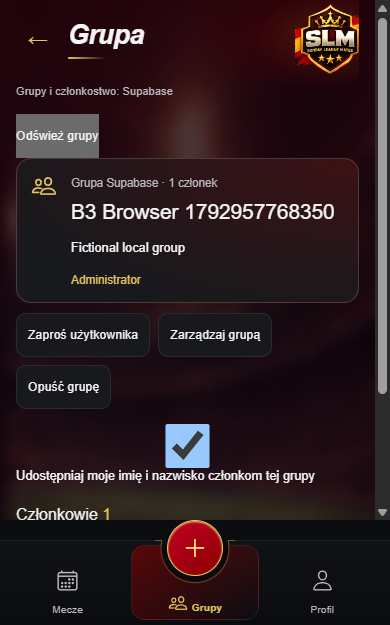
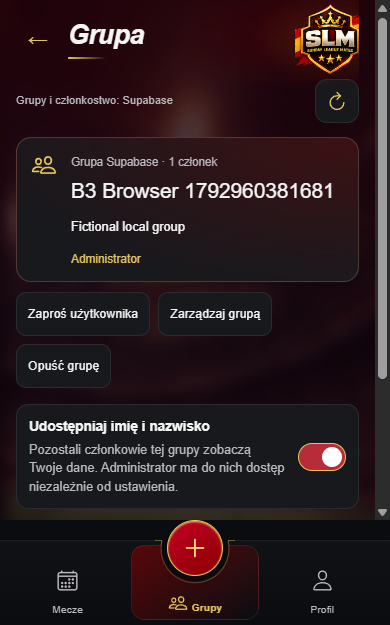
fix: polish Premium group consent and refresh controls

diff --git a/app/src/demo/GroupScreens.tsx b/app/src/demo/GroupScreens.tsx
@@ -4,6 +4,7 @@ import { IonAlert, IonIcon } from '@ionic/react';
 import { peopleOutline, shieldCheckmarkOutline, calendarOutline } from 'ionicons/icons';
 import { useFrozenBack } from '../native/frozenDemoAndroid';
 import MatchHeader from '../ui/MatchHeader';
+import { GroupConsent, GroupRefresh } from '../groups/GroupControls';
 import { DemoAvatar } from './Identity';
 import type { Action } from './data';
 import { canViewGroupProfile, groupAdmin, groupCanOrganize, groupMembers, inviteCandidates, membership, normalizeDemoContact, publicGroups, validGroupText } from './groups';
@@ -42,7 +43,7 @@ function GroupDetails({world,dispatch,groupId,onPlayer,onLeave,live}:Props&{grou
  const [confirm,setConfirm]=useState<{kind:'remove'|'transfer'|'leave';targetId?:string}|null>(null);
  // A list summary is not a member roster. Do not render profiles until the
  // selected group's server projection has completed, even in a hidden panel.
- if(live?.loading)return <p role="status">Wczytywanie członków grupy…</p>;
+ if(live?.loading&&!world.groupState.members.some(m=>m.groupId===groupId&&m.playerId===world.userId&&m.joinedAt))return <p role="status">Wczytywanie członków grupy…</p>;
  const group=world.groupState.groups.find(g=>g.id===groupId),own=membership(world,groupId),admin=groupAdmin(world,groupId);
  if(!group||!own)return <section className="slm-group-empty" role="status"><h2>Brak dostępu do członków</h2><p>Grupa nie istnieje lub nie jesteś jej członkiem. Możesz znaleźć grupę i poprosić o dołączenie.</p></section>;
  const members=groupMembers(world,groupId).sort((a,b)=>Number(b.playerId===group.adminId)-Number(a.playerId===group.adminId)||nameOf(world,a.playerId).localeCompare(nameOf(world,b.playerId),'pl'));
@@ -53,7 +54,7 @@ function GroupDetails({world,dispatch,groupId,onPlayer,onLeave,live}:Props&{grou
  return <><section className="slm-group-hero"><IonIcon icon={peopleOutline} aria-hidden="true"/><div><small>{live?'Grupa Supabase':'Grupa demonstracyjna'} · {memberCount(members.length)}</small><h2>{group.name}</h2><p>{group.description||'Wspólna ekipa piłkarska'}</p><span className="slm-group-role">{role(world.userId)}</span></div></section><div className="slm-group-actions"><button type="button" aria-expanded={invite} onClick={()=>setInvite(!invite)}>{admin?'Zaproś użytkownika':'Zaproponuj zaproszenie'}</button>{admin&&<button type="button" aria-expanded={manage} onClick={()=>setManage(!manage)}>Zarządzaj grupą</button>}<button type="button" onClick={()=>setConfirm({kind:'leave'})}>Opuść grupę</button></div>
  {invite&&<Invite world={world} group={group} dispatch={dispatch} live={live}/>}
  {admin&&manage&&<section className="slm-group-management" aria-label="Panel administratora grupy"><h2>Zarządzanie grupą</h2><p className="slm-muted">Uprawnienia obowiązują tylko w tej grupie i pozwalają tworzyć jej mecze.</p><h3>Prośby i propozycje <span>{requests.length}</span></h3>{!requests.length&&<p>Brak oczekujących zgłoszeń.</p>}{requests.map(r=><article className="slm-group-request" key={r.id}><h4>{requestTitle(world,r)}</h4>{live?.requestPhones[r.id]&&<a className="slm-call" href={'tel:'+live.requestPhones[r.id]}>Zadzwoń do zgłaszającego</a>}{r.kind==='proposal'&&<small>Proponuje: {nameOf(world,r.requestedBy)}</small>}<div className="slm-group-actions"><button type="button" onClick={()=>dispatch({type:'group_decide',requestId:r.id,accept:false})}>Odrzuć zgłoszenie</button><button type="button" onClick={()=>dispatch({type:'group_decide',requestId:r.id,accept:true})}>Akceptuj zgłoszenie</button></div></article>)}<h3>Uprawnienia członka</h3>{!selected?<p>Nie ma innych członków do zarządzania.</p>:<><label htmlFor="group-manage-member">Wybierz członka<select id="group-manage-member" value={selected.playerId} onChange={e=>setTarget(e.target.value)}>{others.map(m=><option key={m.playerId} value={m.playerId}>{nameOf(world,m.playerId)}</option>)}</select></label><p>{role(selected.playerId)}</p><div className="slm-group-actions"><button type="button" onClick={()=>dispatch({type:'group_permission',groupId,targetId:selected.playerId,allow:!selected.organizer})}>{selected.organizer?'Odbierz prawo tworzenia meczów':'Nadaj prawo tworzenia meczów'}</button><button type="button" onClick={()=>setConfirm({kind:'transfer',targetId:selected.playerId})}>Przekaż administrację</button><button type="button" onClick={()=>setConfirm({kind:'remove',targetId:selected.playerId})}>Usuń członka</button></div></>}</section>}
- <>{live&&<label><input type="checkbox" checked={live.shareFullName} onChange={e=>live.consent(e.target.checked)}/> Udostępniaj moje imię i nazwisko także pozostałym członkom tej grupy (administrator ma dostęp)</label>}</><section className="slm-group-roster" aria-label="Członkowie grupy"><h2>Członkowie <span>{members.length}</span></h2><ul>{(expanded?members:members.slice(0,5)).map(m=>{const player=world.players.find(p=>p.id===m.playerId)!;return <li key={m.playerId}><button type="button" className="slm-group-person" data-player={m.playerId} onClick={()=>{if(canViewGroupProfile(world,groupId,m.playerId))onPlayer(m.playerId,groupId);}}><span className="slm-player-avatar" aria-hidden="true"><DemoAvatar player={player}/></span><span><strong>{player.name}</strong><small>{role(m.playerId)}</small></span><IonIcon icon={m.playerId===group.adminId?shieldCheckmarkOutline:m.organizer?calendarOutline:peopleOutline} aria-hidden="true"/><span aria-hidden="true">›</span></button></li>;})}</ul>{members.length>5&&<button type="button" aria-expanded={expanded} onClick={()=>setExpanded(!expanded)}>{expanded?'Pokaż mniej':`Pokaż wszystkich (${members.length})`}</button>}</section>
+ {live&&<GroupConsent checked={live.shareFullName} busy={live.busy||live.loading} onChange={live.consent}/>}<section className="slm-group-roster" aria-label="Członkowie grupy"><h2>Członkowie <span>{members.length}</span></h2><ul>{(expanded?members:members.slice(0,5)).map(m=>{const player=world.players.find(p=>p.id===m.playerId)!;return <li key={m.playerId}><button type="button" className="slm-group-person" data-player={m.playerId} onClick={()=>{if(canViewGroupProfile(world,groupId,m.playerId))onPlayer(m.playerId,groupId);}}><span className="slm-player-avatar" aria-hidden="true"><DemoAvatar player={player}/></span><span><strong>{player.name}</strong><small>{role(m.playerId)}</small></span><IonIcon icon={m.playerId===group.adminId?shieldCheckmarkOutline:m.organizer?calendarOutline:peopleOutline} aria-hidden="true"/><span aria-hidden="true">›</span></button></li>;})}</ul>{members.length>5&&<button type="button" aria-expanded={expanded} onClick={()=>setExpanded(!expanded)}>{expanded?'Pokaż mniej':`Pokaż wszystkich (${members.length})`}</button>}</section>
  <IonAlert isOpen={!!confirm} header={confirm?.kind==='leave'?'Opuścić grupę?':confirm?.kind==='transfer'?'Przekazać administrację?':'Usunąć członka?'} message={confirm?.kind==='leave'?(last?(live?'Jesteś ostatnim członkiem. Grupa zostanie zarchiwizowana; historia pozostanie zachowana.':'Jesteś ostatnim członkiem. Pusta grupa zostanie usunięta z demo.'):admin?'Administrację przejmie najstarszy stażem organizator, a gdy go brak — najstarszy członek.':'Utracisz dostęp do członków i uprawnienia tej grupy.'):confirm?.kind==='transfer'?`Administrację otrzyma ${nameOf(world,confirm.targetId??null)}. Przestaniesz być administratorem.`:`${nameOf(world,confirm?.targetId??null)} utraci członkostwo i uprawnienia w tej grupie.`} buttons={[{text:'Anuluj',role:'cancel'},{text:'Potwierdź',role:'destructive',handler:()=>{if(!confirm)return;if(confirm.kind==='leave'){dispatch({type:'group_leave',groupId});onLeave();}else dispatch({type:confirm.kind==='remove'?'group_remove':'group_transfer',groupId,targetId:confirm.targetId!});}}]} onDidDismiss={()=>setConfirm(null)}/>
  </>;
 }
@@ -67,7 +68,7 @@ export default function Groups({world,dispatch,onPlayer,live}:Props) {
  useFrozenBack(()=>{if(view==='mine')return false;home();return true;},()=>document.querySelector<HTMLElement>('.slm-groups'),20);
  // FROZEN_ANDROID_END
  const mine=world.groupState.groups.filter(g=>membership(world,g.id));
- return <section className="slm-groups" aria-label={live?"Grupy Supabase":"Grupy demonstracyjne"}><MatchHeader title={view==='mine'?'Moje grupy':view==='find'?'Znajdź grupę':view==='create'?'Nowa grupa':'Grupa'} onBack={view==='mine'?undefined:home} backLabel="Wróć do moich grup"/>{world.notice&&<p className="slm-group-feedback" role="status">{world.notice}</p>}<p className="slm-groups-demo">{live?'Grupy i członkostwo: Supabase':'Fikcyjne grupy · dane tylko w pamięci demo'}</p>{live&&<><button type="button" disabled={live.busy||live.loading} onClick={()=>void live.refresh()}>Odśwież grupy</button>{live.loading&&<p role="status">Wczytywanie grup…</p>}{live.error&&<p className="slm-error" role="alert">{live.error}</p>}</>}<fieldset hidden={live?.loading||!!live?.error} disabled={live?.busy||live?.loading} style={{border:0,padding:0,margin:0,minWidth:0}}>
+ return <section className="slm-groups" aria-label={live?"Grupy Supabase":"Grupy demonstracyjne"}><MatchHeader title={view==='mine'?'Moje grupy':view==='find'?'Znajdź grupę':view==='create'?'Nowa grupa':'Grupa'} onBack={view==='mine'?undefined:home} backLabel="Wróć do moich grup"/>{world.notice&&<p className="slm-group-feedback" role="status">{world.notice}</p>}<div className={live?"slm-group-toolbar":undefined}><p className="slm-groups-demo">{live?'Grupy i członkostwo: Supabase':'Fikcyjne grupy · dane tylko w pamięci demo'}</p>{live&&<GroupRefresh loading={live.loading} disabled={live.busy} onRefresh={live.refresh}/>}</div>{live&&<>{live.loading&&!world.groupState.groups.length&&<p role="status">Wczytywanie grup…</p>}{live.error&&<p className="slm-error" role="alert">{live.error}</p>}</>}<fieldset hidden={(live?.loading||!!live?.error)&&!world.groupState.groups.length} disabled={live?.busy||live?.loading} style={{border:0,padding:0,margin:0,minWidth:0}}>
  {view==='mine'?<><div className="slm-group-actions"><button type="button" className="slm-group-primary" onClick={()=>setView('create')}>Utwórz grupę</button><button type="button" onClick={()=>setView('find')}>Znajdź grupę</button></div><div className="slm-group-list">{mine.map(g=>{const count=live?live.counts[g.id]??0:world.groupState.members.filter(m=>m.groupId===g.id).length,admin=groupAdmin(world,g.id),pending=live?live.pending[g.id]??0:world.groupState.requests.filter(r=>r.groupId===g.id&&r.status==='pending'&&r.channel==='nick'&&r.kind!=='invite'&&(admin||r.requestedBy===world.userId)).length;return <button type="button" className="slm-group-card" key={g.id} onClick={()=>open(g.id)}><IonIcon icon={peopleOutline} aria-hidden="true"/><span><strong>{g.name}</strong><small>{g.description}</small><span className="slm-group-meta">{memberCount(count)} · {admin?'Administrator':groupCanOrganize(world,g.id)?'Organizator':'Członek'}</span>{pending>0&&<span className="slm-group-pending">Oczekujące zgłoszenia: {pending}</span>}</span><span aria-hidden="true">›</span></button>;})}</div>{!mine.length&&<section className="slm-group-empty"><h2>Jeszcze nie należysz do grupy</h2><p>Utwórz własną ekipę, znajdź grupę lub przyjmij zaproszenie.</p></section>}<Invitations world={world} dispatch={dispatch} live={live}/>{live&&<section className="slm-group-inbox" aria-label="Moje zgłoszenia"><h2>Moje zgłoszenia</h2>{world.groupState.requests.filter(r=>r.kind==='join'&&r.requestedBy===world.userId).map(r=><article className="slm-group-request" key={r.id}><h3>{world.groupState.groups.find(g=>g.id===r.groupId)?.name}</h3><p>{({pending:'Oczekuje',accepted:'Przyjęto',rejected:'Odrzucono',cancelled:'Anulowano'})[r.status]}</p>{r.status==='pending'&&<button type="button" onClick={()=>dispatch({type:'group_cancel',requestId:r.id})}>Anuluj prośbę</button>}</article>)}</section>}</>:view==='create'?<NewGroup live={live} onCancel={home} onSave={async(name,description,key)=>{if(live){const id=await live.create(name,description,key);if(id)open(id,true);return;}const id=`group-${world.groupState.nextId}`;dispatch({type:'group_create',name,description,key});open(id);}}/>:view==='find'?<FindGroups world={world} dispatch={dispatch} onOpen={open} live={live}/>:<GroupDetails key={`${selected}-${world.userId}`} groupId={selected} world={world} dispatch={dispatch} onPlayer={onPlayer} onLeave={home} live={live}/>}
  </fieldset></section>;
 }

diff --git a/app/src/groups/useGroups.test.tsx b/app/src/groups/useGroups.test.tsx
@@ -17,8 +17,8 @@ it('uses server counts and UUIDs without importing any demo world or inventing m
 it('does not render an invented member profile while a real detail request is loading',()=>{
  window.history.replaceState(null,'','/#group/group-real');
  const binding:GroupBinding={loading:true,busy:false,error:'',searching:false,finding:false,counts:{'group-real':2},pending:{},found:[],candidates:[],requestPhones:{},shareFullName:false,refresh:async()=>{},open:async()=>{},search:()=>{},findPlayers:()=>{},create:async()=>null,act:()=>{},consent:()=>{}};
- render(<GroupScreens world={groupWorld('owner',[group],[],null)} live={binding} dispatch={vi.fn()} onPlayer={vi.fn()}/>);
- expect(screen.getByText('Wczytywanie grup…')).toBeTruthy();expect(screen.queryByText('Osoba demonstracyjna')).toBeNull();
+ render(<GroupScreens world={{...groupWorld('owner',[group],[],null),players:[{id:'unrelated',name:'Other group member',nick:'Other'}]}} live={binding} dispatch={vi.fn()} onPlayer={vi.fn()}/>);
+ expect(screen.getByText('Wczytywanie członków grupy…')).toBeTruthy();expect(screen.queryByText('Osoba demonstracyjna')).toBeNull();
 });
 it('clears private group state on failed refresh and permits retry without a demo fallback',async()=>{
  let broken=false;
@@ -59,4 +59,42 @@ it('ignores late search results and updates membership only from server read-bac
  await waitFor(()=>expect(result.current.binding.busy).toBe(false));
  expect(manager.call).toHaveBeenCalledWith('groups_consent',expect.objectContaining({group_id:'group-real',share_full_name:true,request_id:expect.any(String)}));
  expect(result.current.binding.shareFullName).toBe(false); // Server read-back, never optimistic consent.
+});
+
+it('coalesces simultaneous manual refreshes into one list/inbox request pair',async()=>{
+ let hold=false,finish:(value:unknown)=>void=()=>{};
+ const manager=mock(async action=>action==='groups_list'?(hold?new Promise(resolve=>{finish=resolve;}):{groups:[group]}):{requests:[]});
+ const {result}=renderHook(()=>useGroups(manager,'owner'));await waitFor(()=>expect(result.current.binding.loading).toBe(false));
+ vi.mocked(manager.call).mockClear();hold=true;
+ let first:Promise<void>,second:Promise<void>;
+ act(()=>{first=result.current.binding.refresh();second=result.current.binding.refresh();});
+ expect(first!).toBe(second!);expect(manager.call).toHaveBeenCalledTimes(2);
+ await act(async()=>{finish({groups:[group]});await first;});
+ expect(result.current.binding.loading).toBe(false);
+});
+it('retains server consent after refresh/reopen, scopes writes and retains old value on save error',async()=>{
+ let stored=false,broken=false;
+ const manager=mock(async(action,body)=>{
+  if(action==='groups_list')return {groups:[group]};if(action==='groups_inbox')return {requests:[]};
+  if(action==='groups_detail')return {...detail,members:detail.members.map(m=>({...m,share_full_name:stored}))};
+  if(action==='groups_consent'){if(broken)throw Error('Save failed');stored=body?.share_full_name===true;return {ok:true};}
+  throw Error('Unexpected operation');
+ });
+ const {result}=renderHook(()=>useGroups(manager,'owner'));await waitFor(()=>expect(result.current.binding.loading).toBe(false));
+ await act(()=>result.current.binding.open(group.id));act(()=>result.current.binding.consent(true));
+ await waitFor(()=>expect(result.current.binding.busy).toBe(false));expect(result.current.binding.shareFullName).toBe(true);
+ await act(()=>result.current.binding.refresh());await act(()=>result.current.binding.open(group.id));expect(result.current.binding.shareFullName).toBe(true);
+ broken=true;act(()=>result.current.binding.consent(false));await waitFor(()=>expect(result.current.binding.error).toBe('Save failed'));
+ expect(result.current.binding.shareFullName).toBe(true);expect(stored).toBe(true);
+ expect(manager.call).toHaveBeenCalledWith('groups_consent',expect.objectContaining({group_id:group.id,share_full_name:true}));
+});
+
+it('keeps the saved switch visible with an accessible save error',()=>{
+ window.history.replaceState(null,'','/#group/group-real');
+ const binding:GroupBinding={loading:false,busy:false,error:'Save failed',searching:false,finding:false,counts:{'group-real':2},pending:{},found:[],candidates:[],requestPhones:{},shareFullName:true,refresh:async()=>{},open:async()=>{},search:()=>{},findPlayers:()=>{},create:async()=>null,act:()=>{},consent:()=>{}};
+ const {rerender}=render(<GroupScreens world={groupWorld('owner',[group],[],detail)} live={binding} dispatch={vi.fn()} onPlayer={vi.fn()}/>);
+ expect(screen.getByRole('alert').textContent).toBe('Save failed');
+ expect(screen.getByRole('switch',{name:'Udostępniaj imię i nazwisko'}).getAttribute('aria-checked')).toBe('true');
+ rerender(<GroupScreens world={groupWorld('owner',[group],[],detail)} live={{...binding,error:'',loading:true}} dispatch={vi.fn()} onPlayer={vi.fn()}/>);
+ expect(screen.getByRole('switch').getAttribute('aria-checked')).toBe('true');expect(screen.getByRole('switch')).toHaveProperty('disabled',true);
 });

diff --git a/app/cypress/b3/groups.cy.ts b/app/cypress/b3/groups.cy.ts
@@ -10,16 +10,17 @@ describe('Premium B3: original groups UI with real backend',()=>{
   cy.contains('nav button','Grupy').click();cy.contains('Grupy i członkostwo: Supabase').should('be.visible');
   cy.contains('button','Utwórz grupę').click();cy.get('#group-name').type(groupName);cy.get('#group-description').type('Fictional local group');cy.get('form[aria-label="Utwórz grupę"] button[type=submit]').click();
   cy.contains('.slm-group-hero',groupName).should('be.visible');cy.contains('.slm-group-role','Administrator').should('be.visible');
-  cy.get('input[type=checkbox]').check();cy.get('input[type=checkbox]').should('be.checked');
+  cy.get('[role=switch]').should('have.attr','aria-checked','false').click();cy.get('[role=switch]').should('have.attr','aria-checked','true').and('not.be.disabled');
+  cy.get('[aria-label="Odśwież grupy"]').click();cy.get('[role=switch]').should('have.attr','aria-checked','true').and('not.be.disabled');
   cy.contains('.slm-group-person','B3 Player 1').click();cy.get('.slm-ultimate-card').should('be.visible');cy.contains('a','Zadzwoń').should('have.attr','href').and('match',/^tel:\+48000/);
   cy.get('[aria-label="Wróć do grupy"]').click();cy.contains('.slm-group-hero',groupName).should('be.visible');
   cy.contains('.slm-group-person','B3 Player 1').click();cy.get('.slm-ultimate-card').should('be.visible');
   cy.contains('nav button','Grupy').click();cy.contains('h1','Moje grupy').should('be.visible');cy.contains('.slm-group-card',groupName).click();
-  cy.reload();cy.contains('.slm-group-hero',groupName,{timeout:15000}).should('be.visible');cy.get('[aria-label="Wróć do moich grup"]').click();cy.contains('button','Znajdź grupę').click();cy.get('#group-query').type(groupName);cy.contains('.slm-group-card',groupName).should('be.visible');
+  cy.reload();cy.contains('.slm-group-hero',groupName,{timeout:15000}).should('be.visible');cy.get('[role=switch]').should('have.attr','aria-checked','true');cy.get('[aria-label="Wróć do moich grup"]').click();cy.contains('button','Znajdź grupę').click();cy.get('#group-query').type(groupName);cy.contains('.slm-group-card',groupName).should('be.visible');
   cy.contains('button','Otwórz swoją grupę').click();cy.contains('.slm-group-hero',groupName).should('be.visible');
   for(const theme of ['light','dark']){
    cy.document().then(doc=>doc.documentElement.classList.toggle('ion-palette-dark',theme==='dark'));
-   for(const width of [320,360,390,430]){cy.viewport(width,844);cy.document().then(doc=>expect(doc.documentElement.scrollWidth).to.be.at.most(width));}
+   for(const width of [320,360,390,430]){cy.viewport(width,844);cy.document().then(doc=>expect(doc.documentElement.scrollWidth).to.be.at.most(width));for(const selector of ['[role=switch]','.slm-group-refresh'])cy.get(selector).then(el=>{const r=el[0].getBoundingClientRect();expect(r.width).to.be.at.least(44);expect(r.height).to.be.at.least(44);expect(r.right).to.be.at.most(width);});}
    cy.viewport(390,844);
    cy.screenshot('groups-real-'+theme,{capture:'viewport',overwrite:true});
   }

diff --git a/app/src/groups/GroupControls.css b/app/src/groups/GroupControls.css
@@ -1,0 +1,19 @@
+/* Wyłącznie kontrolki B3; bez zmian wspólnych kart i nawigacji. */
+.slm-group-toolbar { display:flex; align-items:center; justify-content:space-between; gap:12px; margin-bottom:14px; }
+.slm-group-toolbar .slm-groups-demo { margin:4px 0; }
+.slm-groups .slm-group-refresh { flex:0 0 44px; width:44px; height:44px; display:grid; place-items:center; padding:0; border:1px solid var(--slm-border); border-radius:12px; background:var(--slm-panel); color:var(--slm-gold); }
+.slm-group-refresh ion-icon { font-size:22px; }
+.slm-group-refresh[aria-busy="true"] ion-icon { animation:slm-group-refresh-spin 1s linear infinite; }
+.slm-group-consent { display:flex; align-items:center; gap:12px; margin:16px 0; padding:12px; border:1px solid var(--slm-border); border-radius:12px; background:var(--slm-panel); }
+.slm-group-consent > div { flex:1; min-width:0; }
+.slm-group-consent strong { font-size:0.85rem; }
+.slm-group-consent p { margin:6px 0 0; color:var(--slm-text-secondary); line-height:1.45; }
+.slm-groups .slm-group-consent button { position:relative; flex:0 0 48px; width:48px; height:44px; padding:0; border:0; background:transparent; }
+.slm-group-consent button::before { content:""; position:absolute; inset:8px 0; border:1px solid var(--slm-text-secondary); border-radius:16px; background:var(--ion-background-color); }
+.slm-group-consent button[aria-checked="true"]::before { background:var(--ion-color-primary); border-color:var(--slm-gold); }
+.slm-group-consent button span { position:absolute; left:4px; top:12px; width:20px; height:20px; border-radius:50%; background:var(--slm-text-secondary); transition:transform 150ms ease; }
+.slm-group-consent button[aria-checked="true"] span { transform:translateX(20px); background:var(--ion-color-primary-contrast); }
+.slm-group-consent[aria-busy="true"] { cursor:progress; }
+.slm-groups .slm-group-consent button:focus-visible,.slm-groups .slm-group-refresh:focus-visible { outline:2px solid var(--ion-color-primary); outline-offset:3px; }
+@keyframes slm-group-refresh-spin { to { transform:rotate(360deg); } }
+@media (prefers-reduced-motion:reduce) { .slm-group-refresh[aria-busy="true"] ion-icon { animation:none; } .slm-group-consent button span { transition:none; } }

diff --git a/app/src/groups/useGroups.ts b/app/src/groups/useGroups.ts
@@ -40,6 +40,13 @@ export function useGroups(manager:SessionManager,userId:string){
   } catch(e){if(ticket===generation.current){setState({groups:[],inbox:[],detail:null});fail(e);}}
   finally {if(alive.current&&ticket===generation.current)setLoading(false);}
  },[manager,userId,fail]);
+ // Coalesce manual refreshes synchronously, before React disables the button.
+ const manualFlight=useRef<Promise<void>|null>(null);
+ const manualRefresh=useCallback(()=>{
+  if(manualFlight.current)return manualFlight.current;
+  const pending=refresh();manualFlight.current=pending;
+  void pending.finally(()=>{if(manualFlight.current===pending)manualFlight.current=null;});return pending;
+ },[refresh]);
  const invalidate=useCallback(()=>{generation.current++;searchEpoch.current++;candidateEpoch.current++;},[]);
  useEffect(()=>{alive.current=true;void refresh();return()=>{alive.current=false;invalidate();};},[refresh,userId,invalidate]);
  const mutate=async<T,>(action:string,body:Record<string,unknown>)=>{
@@ -60,7 +67,7 @@ export function useGroups(manager:SessionManager,userId:string){
   const ticket=++candidateEpoch.current;setCandidates([]);setFinding(query.trim().length>=2);if(query.trim().length<2)return;
   void manager.call<{players:{id:string;name:string}[]}>('groups_candidates',{group_id:id,query}).then(r=>{if(alive.current&&ticket===candidateEpoch.current)setCandidates(r.players);}).catch(e=>{if(ticket===candidateEpoch.current)fail(e);}).finally(()=>{if(alive.current&&ticket===candidateEpoch.current)setFinding(false);});
  },[manager,fail]);
- const binding:GroupBinding={loading,busy,error,searching,finding,found,candidates,search,findPlayers,refresh,
+ const binding:GroupBinding={loading,busy,error,searching,finding,found,candidates,search,findPlayers,refresh:manualRefresh,
   counts:Object.fromEntries(state.groups.map(g=>[g.id,g.member_count])),pending:Object.fromEntries(state.groups.map(g=>[g.id,g.pending_count])),
   requestPhones:Object.fromEntries((state.detail?.requests??[]).filter(r=>!!r.contact_phone).map(r=>[r.id,r.contact_phone!])),
   shareFullName:state.detail?.members.find(m=>m.user_id===userId)?.share_full_name??false,

diff --git a/app/src/groups/GroupControls.test.tsx b/app/src/groups/GroupControls.test.tsx
@@ -1,0 +1,22 @@
+import { fireEvent,render,screen,cleanup } from '@testing-library/react';
+import { afterEach,expect,it,vi } from 'vitest';
+import { GroupConsent,GroupRefresh } from './GroupControls';
+
+afterEach(cleanup);
+it('exposes a labelled controlled switch and disables changes while saving',()=>{
+ const change=vi.fn();const {rerender}=render(<GroupConsent checked={false} busy={false} onChange={change}/>);
+ const toggle=screen.getByRole('switch',{name:'Udostępniaj imię i nazwisko'});
+ expect(toggle.getAttribute('aria-checked')).toBe('false');fireEvent.click(toggle);expect(change).toHaveBeenCalledWith(true);
+ expect(toggle.getAttribute('aria-checked')).toBe('false'); // Only server read-back changes it.
+ rerender(<GroupConsent checked busy onChange={change}/>);
+ expect(toggle.getAttribute('aria-checked')).toBe('true');expect(toggle).toHaveProperty('disabled',true);
+ fireEvent.click(toggle);expect(change).toHaveBeenCalledTimes(1);
+ expect(toggle.getAttribute('aria-describedby')).toBeTruthy();
+});
+it('keeps the refresh name and button while loading and prevents further clicks',()=>{
+ const refresh=vi.fn(async()=>{});const {rerender}=render(<GroupRefresh loading={false} disabled={false} onRefresh={refresh}/>);
+ const button=screen.getByRole('button',{name:'Odśwież grupy'});fireEvent.click(button);expect(refresh).toHaveBeenCalledTimes(1);
+ rerender(<GroupRefresh loading disabled={false} onRefresh={refresh}/>);
+ expect(screen.getByRole('button',{name:'Odśwież grupy'})).toBe(button);expect(button.getAttribute('aria-busy')).toBe('true');
+ expect(screen.getByRole('status').textContent).toBe('Odświeżanie grup…');fireEvent.click(button);expect(refresh).toHaveBeenCalledTimes(1);
+});

diff --git a/app/src/groups/GroupControls.tsx b/app/src/groups/GroupControls.tsx
@@ -1,0 +1,19 @@
+import { useId } from 'react';
+import { IonIcon } from '@ionic/react';
+import { refreshOutline } from 'ionicons/icons';
+import './GroupControls.css';
+
+export function GroupConsent({checked,busy,onChange}:{checked:boolean;busy:boolean;onChange:(value:boolean)=>void}) {
+ const id=useId();
+ return <div className="slm-group-consent" aria-busy={busy}>
+  <div><strong id={id}>Udostępniaj imię i nazwisko</strong><p id={`${id}-help`}>Pozostali członkowie tej grupy zobaczą Twoje dane. Administrator ma do nich dostęp niezależnie od ustawienia.</p></div>
+  <button type="button" role="switch" aria-checked={checked} aria-labelledby={id} aria-describedby={`${id}-help`} disabled={busy} onClick={()=>onChange(!checked)}><span aria-hidden="true"/></button>
+ </div>;
+}
+
+export function GroupRefresh({loading,disabled,onRefresh}:{loading:boolean;disabled:boolean;onRefresh:()=>Promise<void>}) {
+ return <button className="slm-group-refresh" type="button" aria-label="Odśwież grupy" aria-busy={loading} disabled={loading||disabled} onClick={()=>void onRefresh()}>
+  <IonIcon icon={refreshOutline} aria-hidden="true"/>
+  <span className="slm-sr-only" role="status">{loading?'Odświeżanie grup…':''}</span>
+ </button>;
+}

diff --git a/app/vite.demo.config.ts b/app/vite.demo.config.ts
@@ -10,6 +10,7 @@ const allowed = new Set([
   'src/demo/palettes.css',
   'src/demo/eventAccess.ts', 'src/demo/EventAccessView.tsx', 'src/demo/eventAccess.css',
   'src/demo/groups.ts', 'src/demo/GroupScreens.tsx',
+  'src/groups/GroupControls.tsx', 'src/groups/GroupControls.css', // Presentation only; no Auth/API imports.
   'src/demo/eventDraft.ts', 'src/demo/EventForm.tsx', 'src/demo/DemoBottomNav.tsx',
   'src/demo/Identity.tsx', 'src/demo/portraits.ts', 'src/demo/Finance.tsx', 'src/demo/Teams.tsx', 'src/demo/UltimatePlayerCard.tsx', 'src/demo/App.tsx', 'src/demo/data.ts', 'src/demo/Panels.tsx', 'src/demo/Profile.tsx', 'demo/index.html', 'demo/main.tsx', 'src/ui/Demo.tsx', 'src/ui/MatchHero.tsx',
   'src/ui/Players.tsx', 'src/ui/MatchHeader.tsx', 'src/ui/ParticipantGroup.tsx', 'src/ui/MatchFilters.tsx', 'src/ui/MatchCapacityProgress.tsx', 'src/ui/capacity.ts', 'src/ui/BottomNav.tsx',

diff --git a/docs/PREMIUM_B3_GROUPS.md b/docs/PREMIUM_B3_GROUPS.md
@@ -93,3 +93,15 @@ Ręczny odbiór B3: **NOT TESTED / oczekuje właściciela**. Wcześniejsze 7/7 k
 6. Potwierdź Ultimate/BottomNav i oba motywy. Nie wysyłaj hasła, tokenów ani prywatnych zdjęć do raportu.
 
 Następny krok: odbiór lokalnego B3, przegląd PR i osobna decyzja o merge do main. B4 oraz zdalny rollout wymagają kolejnych poleceń. Znane ograniczenia: cudze zdjęcia/statystyki niedostępne, brak testów FCM/iOS/Cloud; brak integracji wydarzeń Premium z prawdziwymi grupami.
+
+
+## Poprawki UI po odbiorze POCO — 2026-10-25 21:34 Europe/Warsaw
+
+Zakres wyłącznie dwóch kontrolek B3 w istniejącym PR #13:
+- Systemowy checkbox przejmował globalną regułę `.slm-groups input` (100% szerokości, minimum44px). Zastąpiono go kontrolowanym button role=switch, opisem i osobnym lokalnym CSS. Stan pochodzi nadal z dotychczasowego zapisu/read-back Supabase, bez optymistycznego udostępnienia i bez zmian domyślnego false/grupy/RLS. Podczas operacji kontrolka jest nieaktywna, błąd widoczny jako alert zachowuje poprzedni stan oraz możliwość ponowienia.
+- Odświeżanie to stały przycisk44×44 z istniejącą ikoną Ionicons, semantycznym złotem Light/Dark, aria-label, statusem i obrotem ikony (z respektowaniem reduced motion). Umieszczono obok opisu pod nagłówkiem, poza logo i Wstecz. Przycisk nie zmienia rozmiaru podczas pobierania. Załadowana treść pozostaje na miejscu i jest nieaktywna; pierwszy odczyt nadal chroni niegotowe profile. Równoczesne ręczne wywołania dzielą jeden Promise/cykl pobierania.
+
+Zmiany: src/demo/GroupScreens.tsx, src/groups/GroupControls.tsx + GroupControls.css, useGroups.ts; testy GroupControls.test.tsx/useGroups.test.tsx i cypress/b3/groups.cy.ts. Zaktualizowano wyłącznie hash GroupScreens i opis wyjątku w premium318-contract.json. Demo allowlista dopuszcza dokładnie dwa nowe pliki prezentacyjne bez Auth/API; build i izolacja demo PASS. Wspólne variables.css, Ultimate, BottomNav, Auth, migracje i Edge bez zmian.
+
+PASS: TS, lint,240 Vitest/41 plików (5 nowych przypadków: kontrolki, deduplikacja, zgoda po refresh/reopen i błąd widoku), build Premium, guards32/55. Rzeczywisty lokalny Auth/HTTP28 + przeglądarka1 PASS: zapis zgody, refresh, ponowne otwarcie/reload,4 szerokości320/360/390/430 × Light/Dark, kontrolki min44px i brak overflow. Dodatkowo build demo i izolacja PASS. Wizualnie sprawdzono nowe syntetyczne zrzuty Light/Dark; nie są testem ręcznym na POCO.
+Nie wykonywano żadnych operacji Supabase Cloud, migracji, deploy, instalacji APK ani nowego testu fizycznego telefonu w ramach tej poprawki. Lokalne testy użyły nowych fikcyjnych kont, bez resetu istniejących danych. Potrzebne ręczne potwierdzenie dwóch kontrolek na telefonie po aktualizacji APK. PR pozostaje draft, bez merge; techniczna rekomendacja po zielonych kontrolach i sprawdzeniu braku konfliktów, końcowa decyzja właściciela.

diff --git a/docs/STATUS.md b/docs/STATUS.md
@@ -1,3 +1,10 @@
+# Aktualizacja UI B3 po POCO
+
+2026-10-25 21:34 Europe/Warsaw — feat/premium-b3-groups, istniejący PR #13. Poprawiono wyłącznie kompaktowy przełącznik zgody per grupa i przycisk odświeżania (44px, ikona, stan ładowania, deduplikacja). Załadowane dane nie znikają podczas refresh, błąd zapisu zachowuje stan i kontrolkę. Backend/RLS/Auth/Ultimate/BottomNav bez zmian; brak operacji Cloud.
+PASS: TS/lint,240 Vitest/41 plików, build Premium i demo/isolation, guards32/55, lokalny HTTP28 i real browser1 (4 szerokości ×2 motywy, zgoda po refresh/reload). Nowego testu POCO ani instalacji APK nie wykonywano. PR pozostaje do zatwierdzenia, bez merge. Szczegóły docs/PREMIUM_B3_GROUPS.md i docs/ODPOWIEDZI_CODEX.txt.
+
+---
+
 # Aktualny stan — Premium B3
 
 2026-10-25 21:05 Europe/Warsaw — feat/premium-b3-groups z main a46f5e4. Premium ma rzeczywiste grupy/członkostwo/zgody przez istniejące RPC; domyślny LIVE zachowany, mecze/finanse Premium nadal demo. Auth/profil/numer/zdjęcia bez cofnięcia integracji; CSS/Ultimate/BottomNav bez zmian.
